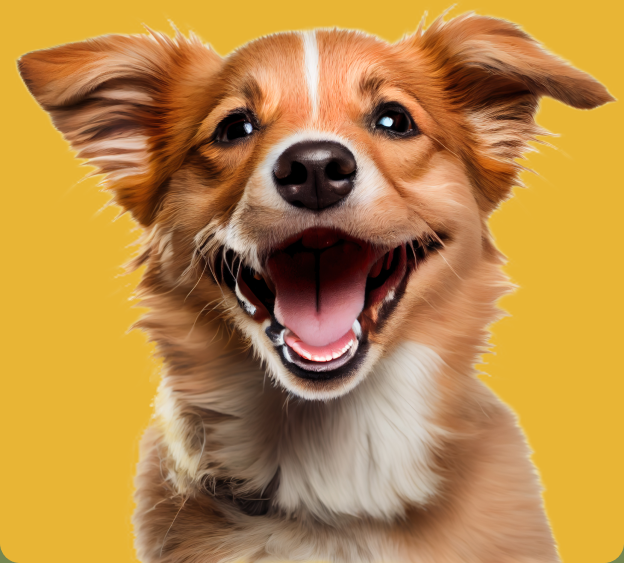
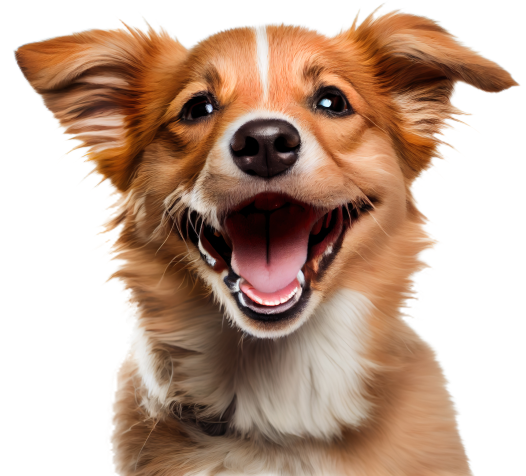
fix: slider yellow block

diff --git a/src/Pages/Home/Components/Slider/Slider.style.ts b/src/Pages/Home/Components/Slider/Slider.style.ts
@@ -16,7 +16,7 @@ const Flex = styled.div`
   display: flex;
   align-items: center;
   justify-content: space-between;
-  gap: 31px;
+  gap: 2vh;
   @media screen and (max-width: 767px) {
     flex-direction: column;
   }
@@ -44,6 +44,7 @@ const TextContainer = styled.div`
 const YellowBlock = styled.div`
   flex: 0 1 50%;
   aspect-ratio: 1/1;
+  max-height: 70vh;
   background: ${theme.colors.yellow} url(${mainPhoto}) bottom no-repeat;
   background-size: contain;
   border-radius: 3%;
@@ -55,7 +56,7 @@ const YellowBlock = styled.div`
 
   @media screen and (max-width: 767px) {
     width: 80%;
-    aspect-ratio: 1.1/1;
+    max-height: 45vh;
   }
 
   @media screen and (max-width: 550px) {
